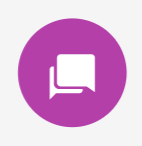
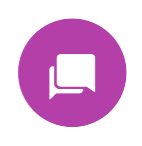
COMMIT

diff --git a/Blender Movie/assets/css/styles.css b/Blender Movie/assets/css/styles.css
@@ -153,7 +153,12 @@ h3{
 /* message icon */
 .message-icon{
     position: fixed;
+    bottom: 20px;
+    right: 20px;
     border-radius: 50%;
+    border: none;
+    height: 86px;
+    width: 86px;
 }
 
 
